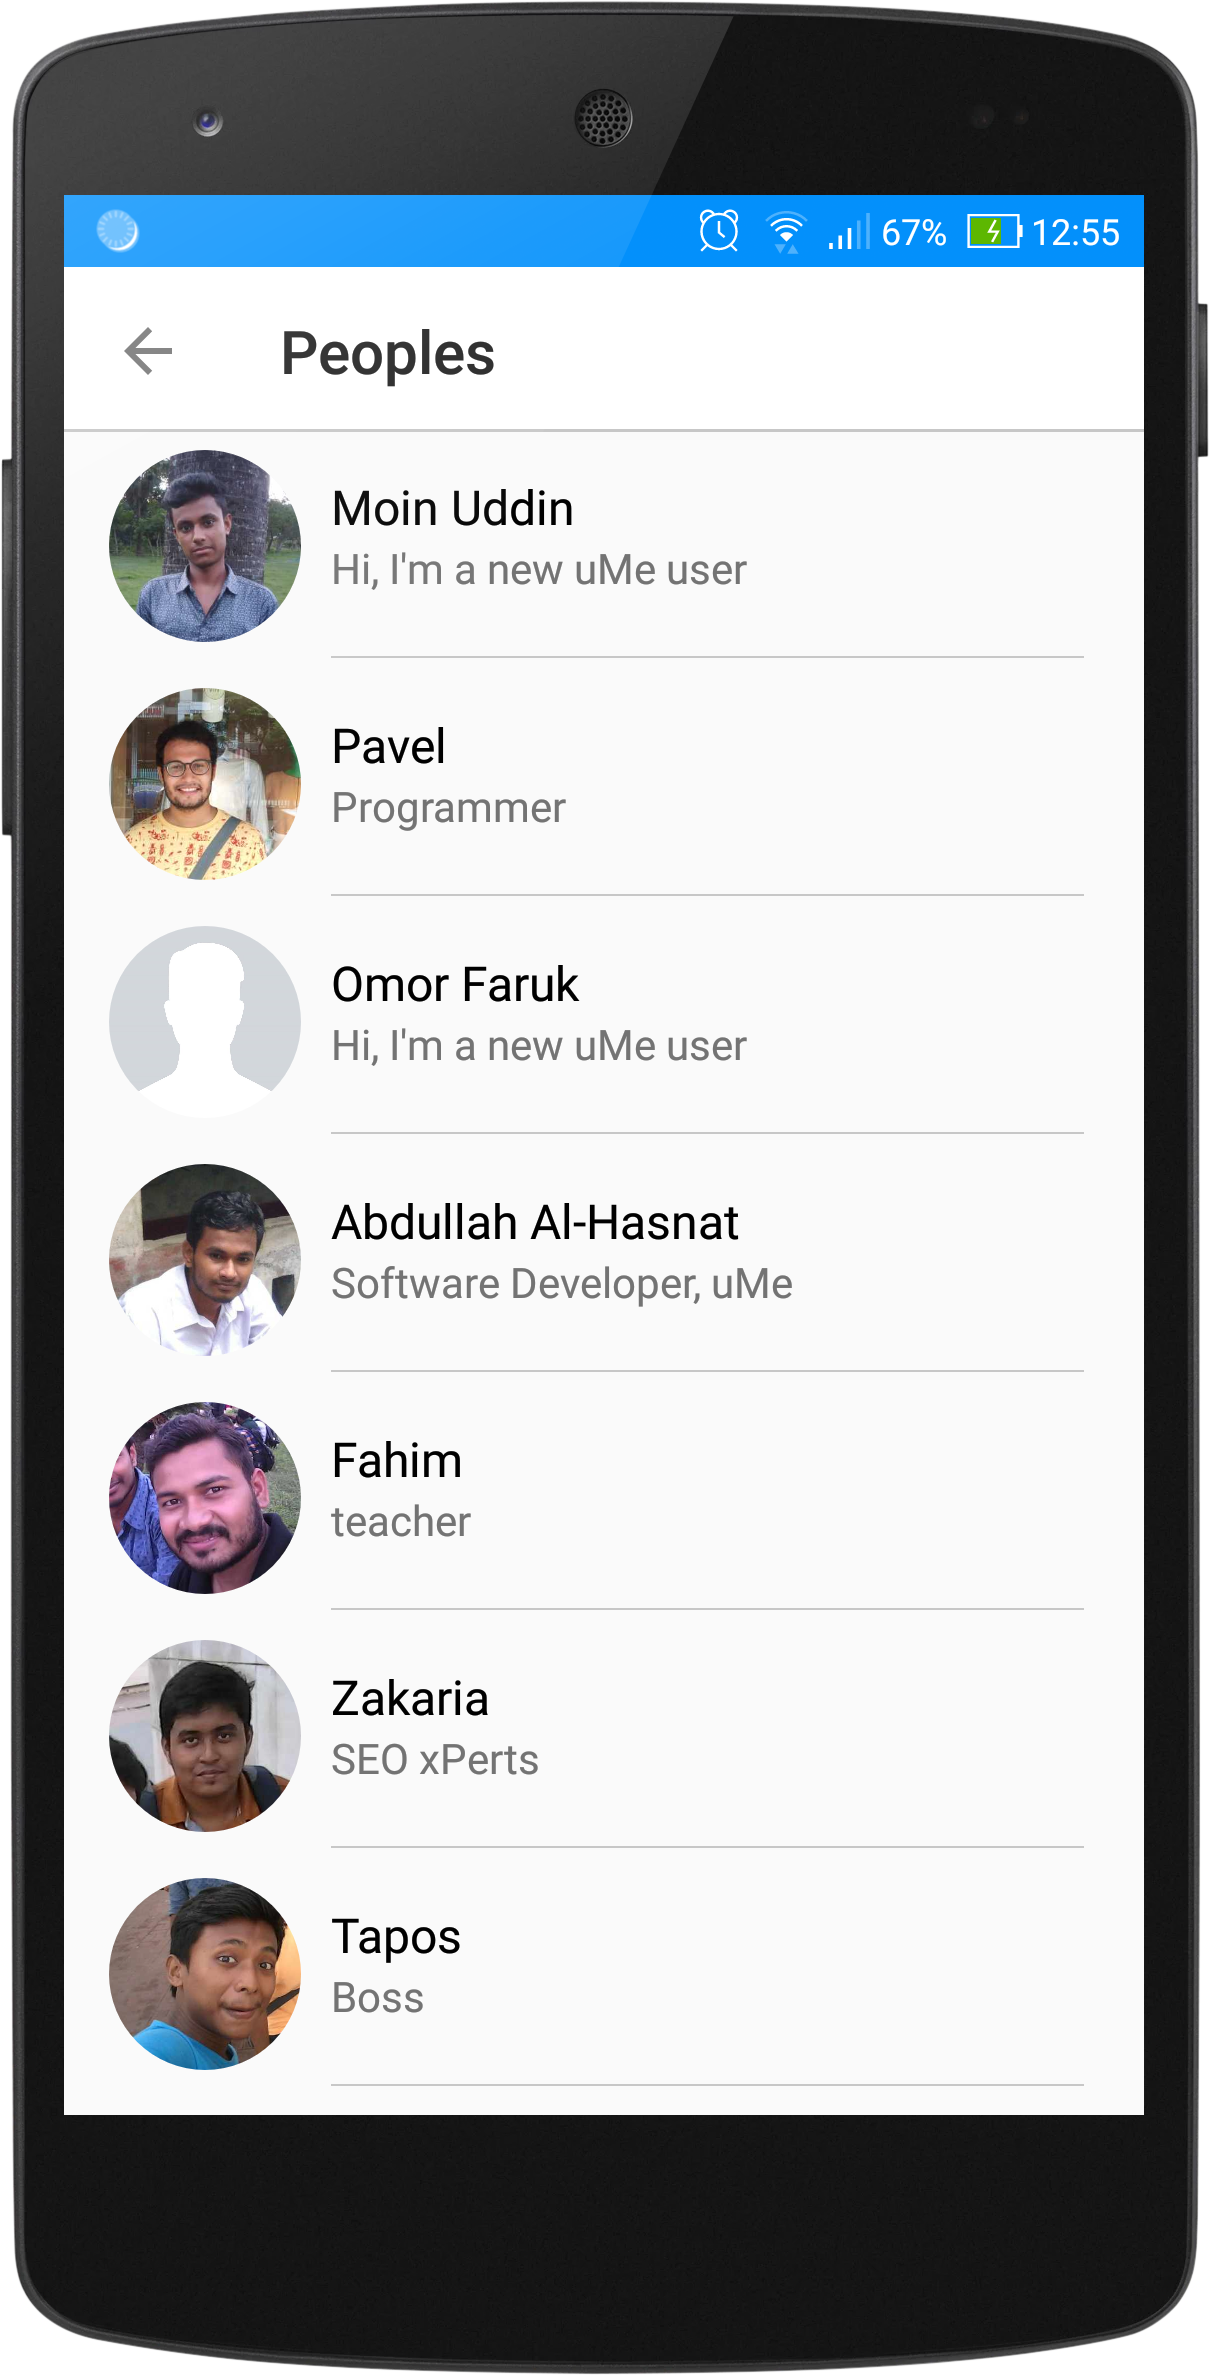
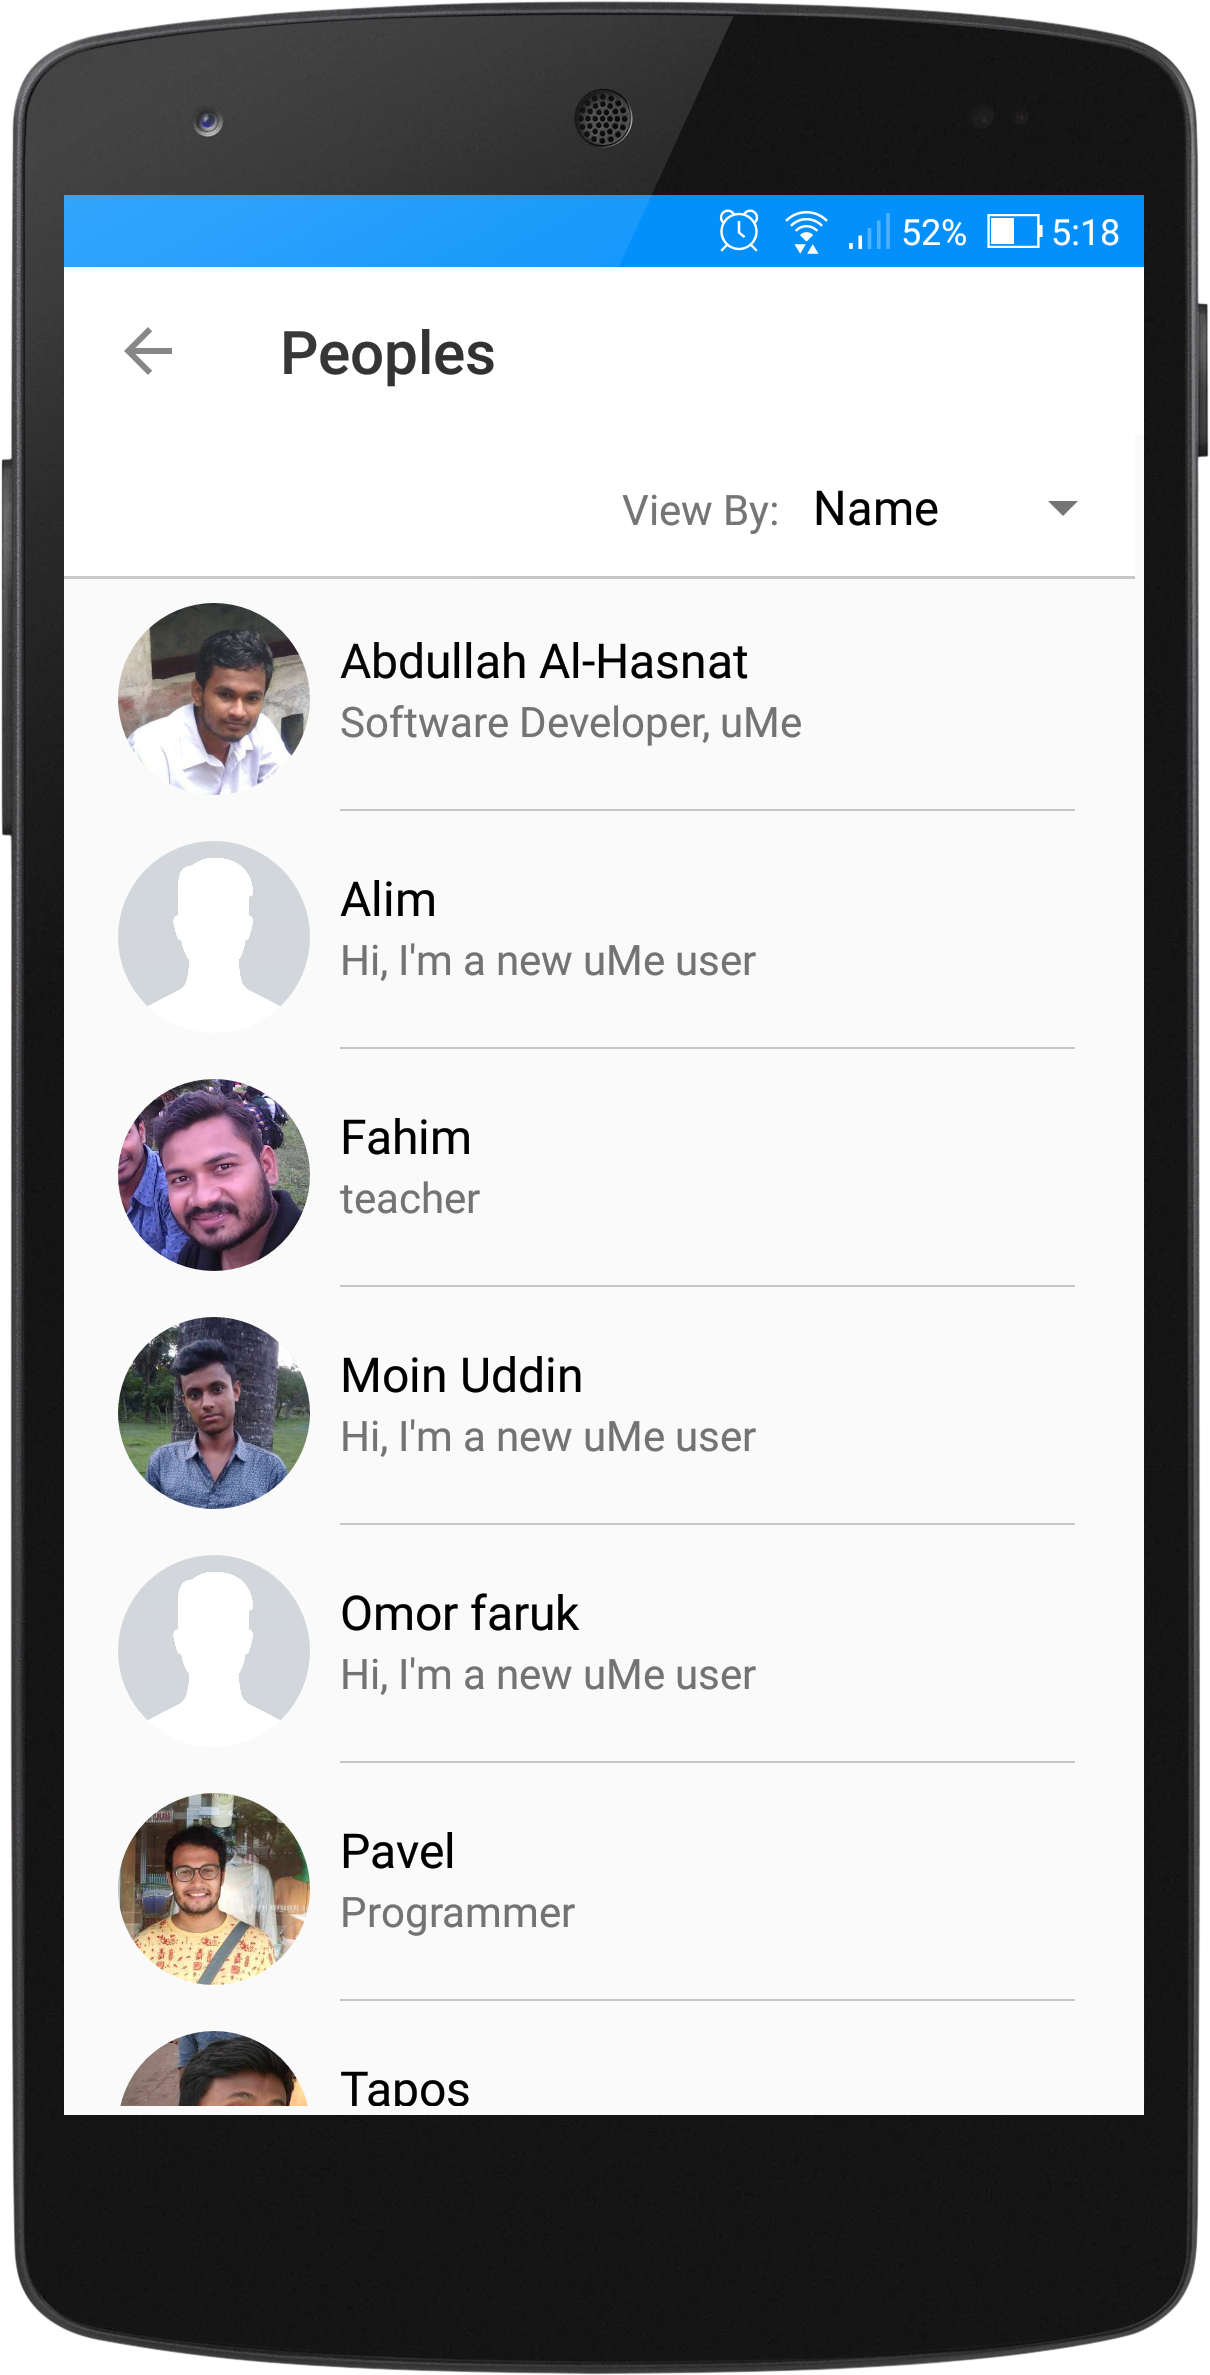
view people by filtering, update readMe.MD

diff --git a/app/src/main/java/com/infobox/hasnat/ume/ume/Peoples/PeoplesActivity.java b/app/src/main/java/com/infobox/hasnat/ume/ume/Peoples/PeoplesActivity.java
@@ -8,6 +8,9 @@ import android.support.v7.widget.LinearLayoutManager;
 import android.support.v7.widget.RecyclerView;
 import android.support.v7.widget.Toolbar;
 import android.view.View;
+import android.widget.AdapterView;
+import android.widget.ArrayAdapter;
+import android.widget.Spinner;
 import android.widget.TextView;
 
 import com.firebase.ui.database.FirebaseRecyclerAdapter;
@@ -25,6 +28,7 @@ import de.hdodenhof.circleimageview.CircleImageView;
 public class PeoplesActivity extends AppCompatActivity {
 
     private Toolbar toolbar;
+    private Spinner spinner;
     private RecyclerView peoples_list;
     private DatabaseReference peoplesDatabaseReference;
 
@@ -39,13 +43,32 @@ public class PeoplesActivity extends AppCompatActivity {
         getSupportActionBar().setDisplayHomeAsUpEnabled(true);
         getSupportActionBar().setDisplayShowHomeEnabled(true);
 
+        peoplesDatabaseReference = FirebaseDatabase.getInstance().getReference().child("users");
+        peoplesDatabaseReference.keepSynced(true); // for offline
+
+        spinner = findViewById(R.id.spinner);
+        String[] categoryName = getResources().getStringArray(R.array.spinerViewPeople);
+        ArrayAdapter<String> arrayAdapter = new ArrayAdapter<>(this, R.layout.support_simple_spinner_dropdown_item ,categoryName);
+        spinner.setAdapter(arrayAdapter);
+        spinner.setOnItemSelectedListener(new AdapterView.OnItemSelectedListener() {
+            @Override
+            public void onItemSelected(AdapterView<?> adapterView, View view, int i, long l) {
+                String catName = adapterView.getItemAtPosition(i).toString().toLowerCase();
+                showPeopleList(catName);
+            }
+
+            @Override
+            public void onNothingSelected(AdapterView<?> adapterView) {
+
+            }
+        });
+
         // Setup recycler view
         peoples_list = (RecyclerView)findViewById(R.id.userLIst);
         peoples_list.setHasFixedSize(true);
         peoples_list.setLayoutManager(new LinearLayoutManager(this));
 
-        peoplesDatabaseReference = FirebaseDatabase.getInstance().getReference().child("users");
-        peoplesDatabaseReference.keepSynced(true); // for offline
+
 
 
 
@@ -56,12 +79,15 @@ public class PeoplesActivity extends AppCompatActivity {
      *
      *  Library link- https://github.com/firebase/FirebaseUI-Android
      */
-    @Override
-    protected void onStart() {
-
-        super.onStart();
-        Query orderByDate = peoplesDatabaseReference.orderByChild("created_at");
-        //Query orderByName = peoplesDatabaseReference.orderByChild("user_name");
+    private void showPeopleList(String catName) {
+        Query query = null;
+        if (catName.equals("default")){
+            query = peoplesDatabaseReference.orderByValue();
+        } else if (catName.equals("name")){
+            query = peoplesDatabaseReference.orderByChild("user_name");
+        } else if (catName.equals("date")){
+            query = peoplesDatabaseReference.orderByChild("created_at");
+        }
 
         FirebaseRecyclerAdapter<AllPeoplesRecyclerView, peoplesViewHolder> firebaseRecyclerAdapter
                 = new FirebaseRecyclerAdapter<AllPeoplesRecyclerView, peoplesViewHolder>
@@ -69,7 +95,7 @@ public class PeoplesActivity extends AppCompatActivity {
                         AllPeoplesRecyclerView.class,
                         R.layout.all_peoples_profile_display,
                         peoplesViewHolder.class,
-                        orderByDate
+                        query
                 ) {
             @Override
             protected void populateViewHolder(peoplesViewHolder viewHolder, AllPeoplesRecyclerView model, final int position) {

diff --git a/app/src/main/java/com/infobox/hasnat/ume/ume/Search/SearchActivity.java b/app/src/main/java/com/infobox/hasnat/ume/ume/Search/SearchActivity.java
@@ -101,7 +101,7 @@ public class SearchActivity extends AppCompatActivity {
         Toast.makeText(this, "Searching...", Toast.LENGTH_SHORT).show();
 
         Query searchQuery = peoplesDatabaseReference.orderByChild("user_name")
-                .startAt(searchString.toUpperCase()).endAt(searchString.toLowerCase() + "\uf8ff");
+                .startAt(searchString).endAt(searchString + "\uf8ff");
 
         FirebaseRecyclerAdapter<AllPeoplesRecyclerView, peoplesViewHolder> firebaseRecyclerAdapter
                 = new FirebaseRecyclerAdapter<AllPeoplesRecyclerView, peoplesViewHolder>

diff --git a/README.md b/README.md
@@ -22,18 +22,13 @@
 [Download APK](https://github.com/TheHasnatBD/uMe/tree/master/myFiles/uMe-(developed_by_Hasnat).apk)
 #### Some Screenshots of this app
 
- Intro Slider                          |  Create Account                                 |  Login			                         | Home
-:-------------------------------------:|:-----------------------------------------------:|:-----------------------------------------:|:----------------------------------------:
- <img src="myFiles/1.into.png" width="200"> |  <img src="myFiles/2.reg.png" width="200"> |<img src="myFiles/3.login.png" width="200">|<img src="myFiles/4.home.png" width="200">
+ Intro Slider                               | Home                                        | Owner Profile UI 			                    | Friend Request UI 
+:------------------------------------------:|:-------------------------------------------:|:-----------------------------------------------:|:----------------------------------------:
+ <img src="myFiles/1.into.png" width="200"> | <img src="myFiles/4.home.png" width="200">  |<img src="myFiles/7.own_profile.png" width="200">|<img src="myFiles/5.request_page.png" width="200">
 
- Friend Request UI                                 | Friend List UI                                 | Owner Profile UI                                | All Users of uMe
-:-------------------------------------------------:|:----------------------------------------------:|:-----------------------------------------------:|:-------------------------------------:
- <img src="myFiles/5.request_page.png" width="200">| <img src="myFiles/6.frnd_page.png" width="200">|<img src="myFiles/7.own_profile.png" width="200">|<img src="myFiles/8.peoples.png" width="200">
-
- uMe user profile UI                                 | When someone send request                        | When two persons become friend                   |  LIVE CHATTING in uMe
-:---------------------------------------------------:|:------------------------------------------------:|:------------------------------------------------:|:-------------------------------------:
- <img src="myFiles/9.people_profile.png" width="200">| <img src="myFiles/10.accept_req.png" width="200">|<img src="myFiles/11.unfriend_fr.png" width="200">|<img src="myFiles/12.chats.png" width="200">
-
+ Search a person                           | All Users of uMe                             | When someone send request                       | LIVE CHATTING in uMe
+:-----------------------------------------:|:--------------------------------------------:|:-----------------------------------------------:|:-------------------------------------:
+ <img src="myFiles/search.png" width="200">| <img src="myFiles/8.peoples.png" width="200">|<img src="myFiles/10.accept_req.png" width="200">|<img src="myFiles/12.chats.png" width="200">
 
 
 
